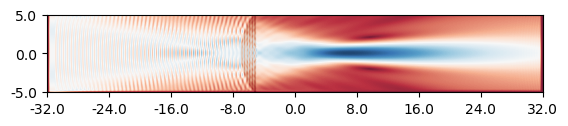
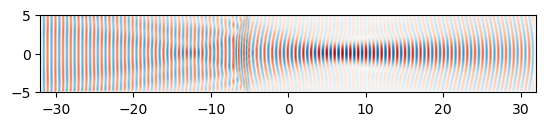
changed imshow ticks to extend

diff --git a/demo_codes/refraction_in_lens.py b/demo_codes/refraction_in_lens.py
@@ -46,10 +46,8 @@ plt.savefig("lens_plot2D.png", bbox_inches='tight')
 eps_data = sim.get_array(center=mp.Vector3(), size=cell, component=mp.Dielectric)
 ez_data = sim.get_array(center=mp.Vector3(), size=cell, component=mp.Ez)
 plt.figure()
-plt.imshow(abs(eps_data).transpose(), interpolation="spline36", cmap="binary", origin="lower")
-plt.imshow(abs(ez_data).transpose(), interpolation="spline36", cmap="RdBu", alpha=0.9, origin="lower")
-plt.xticks(np.linspace(0,eps_data.shape[0],9),np.linspace(-sx/2,sx/2,9))
-plt.yticks(np.linspace(0,eps_data.shape[1],3),np.linspace(-sy/2,sy/2,3))
+plt.imshow(np.real(eps_data).transpose(), interpolation="spline36", cmap="binary", origin="lower", extent=[-sx/2,sx/2,-sy/2,sy/2])
+plt.imshow(np.real(ez_data).transpose(), interpolation="spline36", cmap="RdBu", alpha=0.9, origin="lower", extent=[-sx/2,sx/2,-sy/2,sy/2])
 plt.savefig("lens_end_field.png", bbox_inches='tight')
 
 center_dataEz = sim.get_array(center=mp.Vector3((sx/2+offset)/2-dpml), size=mp.Vector3((sx/2-offset-dpml),0,0), component=mp.Ez)

diff --git a/demo_codes/luneburg_lens.py b/demo_codes/luneburg_lens.py
@@ -37,10 +37,8 @@ eps_data = sim.get_array(center=mp.Vector3(), size=cell, component=mp.Dielectric
 ez_data = sim.get_array(center=mp.Vector3(), size=cell, component=mp.Ez)
 norm = TwoSlopeNorm(vmin=-ez_data.max(), vcenter=0, vmax=ez_data.max())
 plt.figure()
-plt.imshow(eps_data.transpose(), interpolation="spline36", cmap="binary")
-plt.imshow(ez_data.transpose(), interpolation="spline36", cmap="RdBu", norm=norm, alpha=0.6)
-plt.xticks(np.linspace(0,eps_data.shape[0],9),np.linspace(-sx/2,sx/2,9))
-plt.yticks(np.linspace(0,eps_data.shape[1],5),np.linspace(-sy/2,sy/2,5))
+plt.imshow(eps_data.transpose(), interpolation="spline36", cmap="binary", extent=[-sx/2,sx/2,-sy/2,sy/2])
+plt.imshow(ez_data.transpose(), interpolation="spline36", cmap="RdBu", norm=norm, alpha=0.6, extent=[-sx/2,sx/2,-sy/2,sy/2])
 plt.savefig("luneburg_end_field.png", bbox_inches='tight')
 plt.show()
 

diff --git a/docs/source/reflection_and_refraction.rst b/docs/source/reflection_and_refraction.rst
@@ -87,10 +87,8 @@ Now we run the simulation until 75. This time is long enough because then the wa
     eps_data = sim.get_array(center=mp.Vector3(), size=cell, component=mp.Dielectric)
     ez_data = sim.get_array(center=mp.Vector3(), size=cell, component=mp.Ez)
     plt.figure()
-    plt.imshow(abs(eps_data).transpose(), interpolation="spline36", cmap="binary", origin="lower")
-    plt.imshow(abs(ez_data).transpose(), interpolation="spline36", cmap="RdBu", alpha=0.9, origin="lower")
-    plt.xticks(np.linspace(0,eps_data.shape[0],9),np.linspace(-sx/2,sx/2,9))
-    plt.yticks(np.linspace(0,eps_data.shape[1],3),np.linspace(-sy/2,sy/2,3))
+    plt.imshow(np.real(eps_data).transpose(), interpolation="spline36", cmap="binary", origin="lower", extent=[-sx/2,sx/2,-sy/2,sy/2])
+    plt.imshow(np.real(ez_data).transpose(), interpolation="spline36", cmap="RdBu", alpha=0.9, origin="lower", extent=[-sx/2,sx/2,-sy/2,sy/2])
 
 .. figure:: refraction_figures/lens_end_field.png
    :alt: test text
@@ -239,10 +237,8 @@ We define the resolution, create the simulation object, and run the simulation. 
     ez_data = sim.get_array(center=mp.Vector3(), size=cell, component=mp.Ez)
     norm = TwoSlopeNorm(vmin=-ez_data.max(), vcenter=0, vmax=ez_data.max())
     plt.figure()
-    plt.imshow(eps_data.transpose(), interpolation="spline36", cmap="binary")
-    plt.imshow(ez_data.transpose(), interpolation="spline36", cmap="RdBu", norm=norm, alpha=0.6)
-    plt.xticks(np.linspace(0,eps_data.shape[0],9),np.linspace(-sx/2,sx/2,9))
-    plt.yticks(np.linspace(0,eps_data.shape[1],5),np.linspace(-sy/2,sy/2,5))
+    plt.imshow(eps_data.transpose(), interpolation="spline36", cmap="binary", extent=[-sx/2,sx/2,-sy/2,sy/2])
+    plt.imshow(ez_data.transpose(), interpolation="spline36", cmap="RdBu", norm=norm, alpha=0.6, extent=[-sx/2,sx/2,-sy/2,sy/2])
     plt.savefig("luneburg_end_field.png", bbox_inches='tight')
     plt.show()
 
